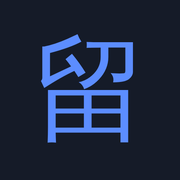
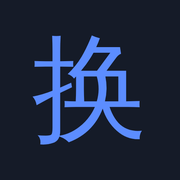
The Exchange · 交换
"Liuxuesheng" was true when this was a board for people who had gone
abroad to study, and it stopped being true when the rooms outgrew it: a
director looking for an agent does not open something called the
students board. The Exchange is what the place actually does — two
sides, and one trades with the other — and it keeps the
language-exchange meaning it started with, so nothing already said to
anybody becomes untrue.

The mark is 换 rather than 留, on the same ground and in the same blue,
across the icons, the favicon and the share card. The card that lands in
a WeChat thread now carries the name and a row of posts out of focus
under the glyph.

THE ADDRESS DOES NOT MOVE. liuxuesheng.io stays, and so do the four /r/
doors on it. A link already forwarded in a WeChat thread has to keep
working, and a domain is a separate decision from a name — this is the
half that costs nothing and breaks nothing.

The line under the hero explains the new name the way the old one was
explained, rather than dropping the history: it began as a place for
people who had gone abroad to study, the rooms outgrew that, and the
name caught up.

Claude-Session: https://claude.ai/code/session_011uP6cYAgEBge7SwTfEThRz

Changed region(s): [[0.1667, 0.1944, 0.8056, 0.8056]]

diff --git a/board/public/i18n.js b/board/public/i18n.js
@@ -155,7 +155,18 @@ export const STRINGS = {
   "rep.sent":          ["Sent. A person reads every one of these.", "已提交。每一条都由人来看。"],
 
   // ---- the landing page ----------------------------------------------------
-  "site.title":        ["Liuxuesheng", "留学生"],
+  /* THE NAME.
+     "Liuxuesheng" was true when this was a board for people who had gone
+     abroad to study, and it stopped being true when the rooms outgrew it — a
+     director looking for an agent does not open something called the students
+     board. The Exchange is what the place actually does: two sides, and one
+     trades with the other. It keeps the language-exchange meaning it started
+     with, so nothing already said to anybody becomes untrue.
+
+     The address is still liuxuesheng.io. A link already forwarded in a WeChat
+     thread has to keep working, and a domain is a separate decision from a
+     name. */
+  "site.title":        ["The Exchange", "交换"],
   /* WHO IT IS FOR, WIDENED ON PURPOSE. It began as a board for exchange
      students and the rooms outgrew that: somebody raising money, somebody
      sourcing from a factory and somebody looking for a language exchange are
@@ -171,8 +182,8 @@ export const STRINGS = {
     "一个可以问出你不好意思问的问题的地方，也可以在这里找到问题另一头的那个人——语伴、一起学习的人、熟悉这座城市的人、一起做点东西的人。不用下载，不用注册。",
   ],
   "site.hanzi": [
-    "留学生 · liúxuéshēng — someone who went abroad to study. That is where this started, and the name stayed even as the rooms outgrew it.",
-    "留学生 —— 这个地方是从这里开始的，后来装下的东西比这个词多了，名字留了下来。",
+    "交换 · jiāohuàn — a swap. One person has what the other is short of, and the whole board is built on finding that pair. It began as a place for people who had gone abroad to study; the rooms outgrew that, and the name caught up.",
+    "交换 · jiāohuàn —— 一方有的，正是另一方缺的；这个板子做的全部事情，就是把这两个人凑到一起。它一开始是给留学生做的，后来装下的东西多了，名字也就跟上了。",
   ],
   "site.open":         ["See who is on it", "看看有谁在"],
   "site.how":          ["How it is run", "怎么管理"],
@@ -1391,11 +1402,11 @@ export const STRINGS = {
    * does not need to.
    */
   "inv.sharedWx": [
-    "This is the students' board I mentioned — 留学生. It is private: nobody can open it without a password, and mine changes every day. Here is today's, good for one person.\n\n{url}\n\nPassword: {code}\n\nOpen it in Safari, not in here — tap ··· at the top right, then Open in Browser. WeChat's browser forgets you.",
-    "就是我说的那个留学生的板子。那里是私密的，没有口令谁也打不开，我的口令每天还会换。这是今天的，只能进一个人。\n\n{url}\n\n口令：{code}\n\n别在微信里打开——点右上角的 ···，选「在浏览器打开」。微信的浏览器记不住你。"],
+    "This is the board I mentioned — The Exchange. It is private: nobody can open it without a password, and mine changes every day. Here is today's, good for one person.\n\n{url}\n\nPassword: {code}\n\nOpen it in Safari, not in here — tap ··· at the top right, then Open in Browser. WeChat's browser forgets you.",
+    "就是我说的那个板子，交换。那里是私密的，没有口令谁也打不开，我的口令每天还会换。这是今天的，只能进一个人。\n\n{url}\n\n口令：{code}\n\n别在微信里打开——点右上角的 ···，选「在浏览器打开」。微信的浏览器记不住你。"],
   "inv.shared": [
-    "This is the students' board I mentioned — 留学生. It is private: nobody can open it without a password, and mine changes every day. Here is today's, good for one person.\n\n{url}\n\nPassword: {code}",
-    "就是我说的那个留学生的板子。那里是私密的，没有口令谁也打不开，我的口令每天还会换。这是今天的，只能进一个人。\n\n{url}\n\n口令：{code}"],
+    "This is the board I mentioned — The Exchange. It is private: nobody can open it without a password, and mine changes every day. Here is today's, good for one person.\n\n{url}\n\nPassword: {code}",
+    "就是我说的那个板子，交换。那里是私密的，没有口令谁也打不开，我的口令每天还会换。这是今天的，只能进一个人。\n\n{url}\n\n口令：{code}"],
   "inv.locked":        ["Private — nothing here opens without today’s password.",
                         "私密——没有今天的口令，这里什么都打不开。"],
   /* The two lines the board says about itself change with the door. "Anyone

diff --git a/board/public/landing.html b/board/public/landing.html
@@ -15,8 +15,8 @@
 <meta name="mobile-web-app-capable" content="yes">
 <meta name="apple-mobile-web-app-capable" content="yes">
 <meta name="apple-mobile-web-app-status-bar-style" content="default">
-<meta name="apple-mobile-web-app-title" content="留学生">
-<title>Liuxuesheng — for people connecting in China</title>
+<meta name="apple-mobile-web-app-title" content="交换">
+<title>The Exchange — find the other half of what you are doing in China</title>
 <meta name="description" content="Find the person on the other side — a language exchange, somebody to study with, somebody to build something with. Ask the question you are embarrassed to ask. Nothing to install. No VPN.">
 
 <!-- The card WeChat, and everything else, builds when this link is forwarded.
@@ -24,7 +24,7 @@
      already here — {{ORIGIN}} is filled in per request by the server, which
      learns its own name from the request and nowhere else. -->
 <meta property="og:type" content="website">
-<meta property="og:title" content="Liuxuesheng — for people connecting in China">
+<meta property="og:title" content="The Exchange — find the other half of what you are doing in China">
 <meta property="og:description" content="Somebody here worked it out last month. Invite only.">
 <meta property="og:image" content="{{ORIGIN}}/share.png">
 <meta property="og:image:width" content="1200">
@@ -39,8 +39,8 @@
 <div class="top">
   <div class="wrap">
     <a class="brand" href="/">
-      <i>留</i>
-      <span><b id="brandname">Liuxuesheng</b><small>留学生</small></span>
+      <i>换</i>
+      <span><b id="brandname">The Exchange</b><small>交换</small></span>
     </a>
     <span id="langslot" style="margin-left:auto;display:flex;gap:.6rem;align-items:center"></span>
     <a class="go" id="navopen" href="/browse">See who is on it</a>
@@ -204,7 +204,7 @@
 
 <footer>
   <div class="wrap">
-    <div class="col"><b>Liuxuesheng · 留学生</b><span id="footAbout"></span></div>
+    <div class="col"><b>The Exchange · 交换</b><span id="footAbout"></span></div>
     <div class="col">
       <b id="footWrong"></b><span id="footWrongP"></span>
       <span id="contact" hidden></span>
@@ -265,7 +265,7 @@ const SHOTS = {
 function paint() {
   document.title = T("site.title") + " — " + T("site.kicker");
   // Not painted from the dictionary: a name is not translated, and
-  // site.title is "留学生" in Chinese — the same word the <small>
+  // site.title is "交换" in Chinese — the same word the <small>
   // beneath it already carries, printed twice.
   for (const id of TEXT) $(id).textContent = T("site." + id);
   $("privacyLink").textContent = T("pv.title");

diff --git a/board/public/abroad.html b/board/public/abroad.html
@@ -15,7 +15,7 @@
 <meta name="mobile-web-app-capable" content="yes">
 <meta name="apple-mobile-web-app-capable" content="yes">
 <meta name="apple-mobile-web-app-status-bar-style" content="default">
-<meta name="apple-mobile-web-app-title" content="留学生">
+<meta name="apple-mobile-web-app-title" content="交换">
 <title>在考虑出国 — 问问正在经历的人</title>
 <meta name="description" content="能问的人几乎都是靠说“值得”赚钱的。这里可以问真正去过的人，还有为了读书搬到中国来的外国学生。">
 
@@ -56,8 +56,8 @@
 <div class="top">
   <div class="wrap">
     <a class="brand" href="/abroad">
-      <i>留</i>
-      <span><b id="brandname">Liuxuesheng</b><small>留学生</small></span>
+      <i>换</i>
+      <span><b id="brandname">The Exchange</b><small>交换</small></span>
     </a>
     <span id="langslot" style="margin-left:auto;display:flex;gap:.6rem;align-items:center"></span>
     <a class="go" id="navopen" href="/feed"></a>
@@ -127,7 +127,7 @@
 
 <footer>
   <div class="wrap">
-    <div class="col"><b>Liuxuesheng · 留学生</b><span id="footAbout"></span></div>
+    <div class="col"><b>The Exchange · 交换</b><span id="footAbout"></span></div>
     <div class="col">
       <b id="footBack"></b>
       <a class="adminlink" href="/" id="footBackGo"></a>
@@ -162,7 +162,7 @@ const FROM = ["DE","KR","FR","BR","IT","RU","TH","PL"];
 function paint() {
   document.title = T("ab.title") + " — " + T("ab.askUnder");
   // Not painted from the dictionary: a name is not translated, and
-  // site.title is "留学生" in Chinese — the same word the <small>
+  // site.title is "交换" in Chinese — the same word the <small>
   // beneath it already carries, printed twice.
   for (const id of TEXT) $(id).textContent = T("ab." + id);
   $("navopen").textContent = T("ab.ctaOpen");

diff --git a/board/public/enter.html b/board/public/enter.html
@@ -12,11 +12,11 @@
 <meta name="mobile-web-app-capable" content="yes">
 <meta name="apple-mobile-web-app-capable" content="yes">
 <meta name="apple-mobile-web-app-status-bar-style" content="default">
-<meta name="apple-mobile-web-app-title" content="留学生">
+<meta name="apple-mobile-web-app-title" content="交换">
 <title>You have been invited</title>
 <meta name="description" content="A private community for people in China, and the people who want to reach them. Invite only.">
 <meta property="og:type" content="website">
-<meta property="og:title" content="留学生 · Liuxuesheng">
+<meta property="og:title" content="交换 · The Exchange">
 <!-- WHAT THE CARD SAYS, AND WHAT IT CANNOT SAY. The password is not in here
      and cannot be: this page is one address shared by everybody, the codes
      rotate daily per member, and a description is cached by whoever renders

diff --git a/board/public/privacy.html b/board/public/privacy.html
@@ -9,7 +9,7 @@
 <link rel="manifest" href="/manifest.webmanifest">
 <meta name="theme-color" content="#EEF0F4">
 <meta name="theme-color" content="#0B0E15" media="(prefers-color-scheme: dark)">
-<title>What is kept — Liuxuesheng</title>
+<title>What is kept — The Exchange</title>
 <meta name="description" content="There are no accounts here, so there is almost nothing to keep. This is the whole of it.">
 <meta name="robots" content="index">
 <meta name="color-scheme" content="light dark">
@@ -37,8 +37,8 @@
 <div class="top">
   <div class="wrap">
     <a class="brand" href="/feed">
-      <i>留</i>
-      <span><b>Liuxuesheng</b><small>留学生</small></span>
+      <i>换</i>
+      <span><b>The Exchange</b><small>交换</small></span>
     </a>
     <span id="langslot" style="margin-left:auto;display:flex;gap:.6rem;align-items:center"></span>
   </div>

diff --git a/board/public/rules.html b/board/public/rules.html
@@ -9,7 +9,7 @@
 <link rel="manifest" href="/manifest.webmanifest">
 <meta name="theme-color" content="#EEF0F4">
 <meta name="theme-color" content="#0B0E15" media="(prefers-color-scheme: dark)">
-<title>House rules — Liuxuesheng</title>
+<title>House rules — The Exchange</title>
 <meta name="description" content="Nine lines about how people behave here. Not terms of service.">
 <meta name="color-scheme" content="light dark">
 <link rel="stylesheet" href="/site.css">
@@ -38,8 +38,8 @@
 <div class="top">
   <div class="wrap">
     <a class="brand" href="/feed">
-      <i>留</i>
-      <span><b>Liuxuesheng</b><small>留学生</small></span>
+      <i>换</i>
+      <span><b>The Exchange</b><small>交换</small></span>
     </a>
     <span id="langslot" style="margin-left:auto;display:flex;gap:.6rem;align-items:center"></span>
   </div>

diff --git a/board/public/person.html b/board/public/person.html
@@ -15,8 +15,8 @@
 <meta name="mobile-web-app-capable" content="yes">
 <meta name="apple-mobile-web-app-capable" content="yes">
 <meta name="apple-mobile-web-app-status-bar-style" content="default">
-<meta name="apple-mobile-web-app-title" content="留学生">
-<title>{{NAME}} · Liuxuesheng</title>
+<meta name="apple-mobile-web-app-title" content="交换">
+<title>{{NAME}} · The Exchange</title>
 <meta name="description" content="{{ABOUT}}">
 
 <!-- The card somebody sees when this is forwarded into a chat. WeChat's

diff --git a/board/public/type.html b/board/public/type.html
@@ -12,7 +12,7 @@
 <meta name="mobile-web-app-capable" content="yes">
 <meta name="apple-mobile-web-app-capable" content="yes">
 <meta name="apple-mobile-web-app-status-bar-style" content="default">
-<meta name="apple-mobile-web-app-title" content="留学生">
+<meta name="apple-mobile-web-app-title" content="交换">
 <title>The type sort</title>
 <meta name="description" content="Twenty quick choices, about two minutes, and where you actually sit on four axes.">
 <meta property="og:type" content="website">

diff --git a/board/public/level.html b/board/public/level.html
@@ -12,7 +12,7 @@
 <meta name="mobile-web-app-capable" content="yes">
 <meta name="apple-mobile-web-app-capable" content="yes">
 <meta name="apple-mobile-web-app-status-bar-style" content="default">
-<meta name="apple-mobile-web-app-title" content="留学生">
+<meta name="apple-mobile-web-app-title" content="交换">
 <title>Your level</title>
 <meta name="description" content="Four questions, one minute, and roughly where your Chinese or your English sits.">
 <meta property="og:type" content="website">

diff --git a/board/public/index.html b/board/public/index.html
@@ -15,7 +15,7 @@
 <meta name="mobile-web-app-capable" content="yes">
 <meta name="apple-mobile-web-app-capable" content="yes">
 <meta name="apple-mobile-web-app-status-bar-style" content="default">
-<meta name="apple-mobile-web-app-title" content="留学生">
+<meta name="apple-mobile-web-app-title" content="交换">
 <title>The Tutor</title>
 <!-- What WeChat puts on the card when somebody forwards this into a chat or
      onto Moments. WeChat's crawler reads the title, this description, and the

diff --git a/board/public/buddies.html b/board/public/buddies.html
@@ -15,7 +15,7 @@
 <meta name="mobile-web-app-capable" content="yes">
 <meta name="apple-mobile-web-app-capable" content="yes">
 <meta name="apple-mobile-web-app-status-bar-style" content="default">
-<meta name="apple-mobile-web-app-title" content="留学生">
+<meta name="apple-mobile-web-app-title" content="交换">
 <title>Study buddies</title>
 <meta name="description" content="Exchange students in China looking for someone to study with.">
 <meta property="og:type" content="website">

diff --git a/board/public/notes.html b/board/public/notes.html
@@ -15,7 +15,7 @@
 <meta name="mobile-web-app-capable" content="yes">
 <meta name="apple-mobile-web-app-capable" content="yes">
 <meta name="apple-mobile-web-app-status-bar-style" content="default">
-<meta name="apple-mobile-web-app-title" content="留学生">
+<meta name="apple-mobile-web-app-title" content="交换">
 <title>Messages</title>
 <meta name="description" content="Introductions people sent you, and the ones you sent.">
 <meta property="og:type" content="website">
